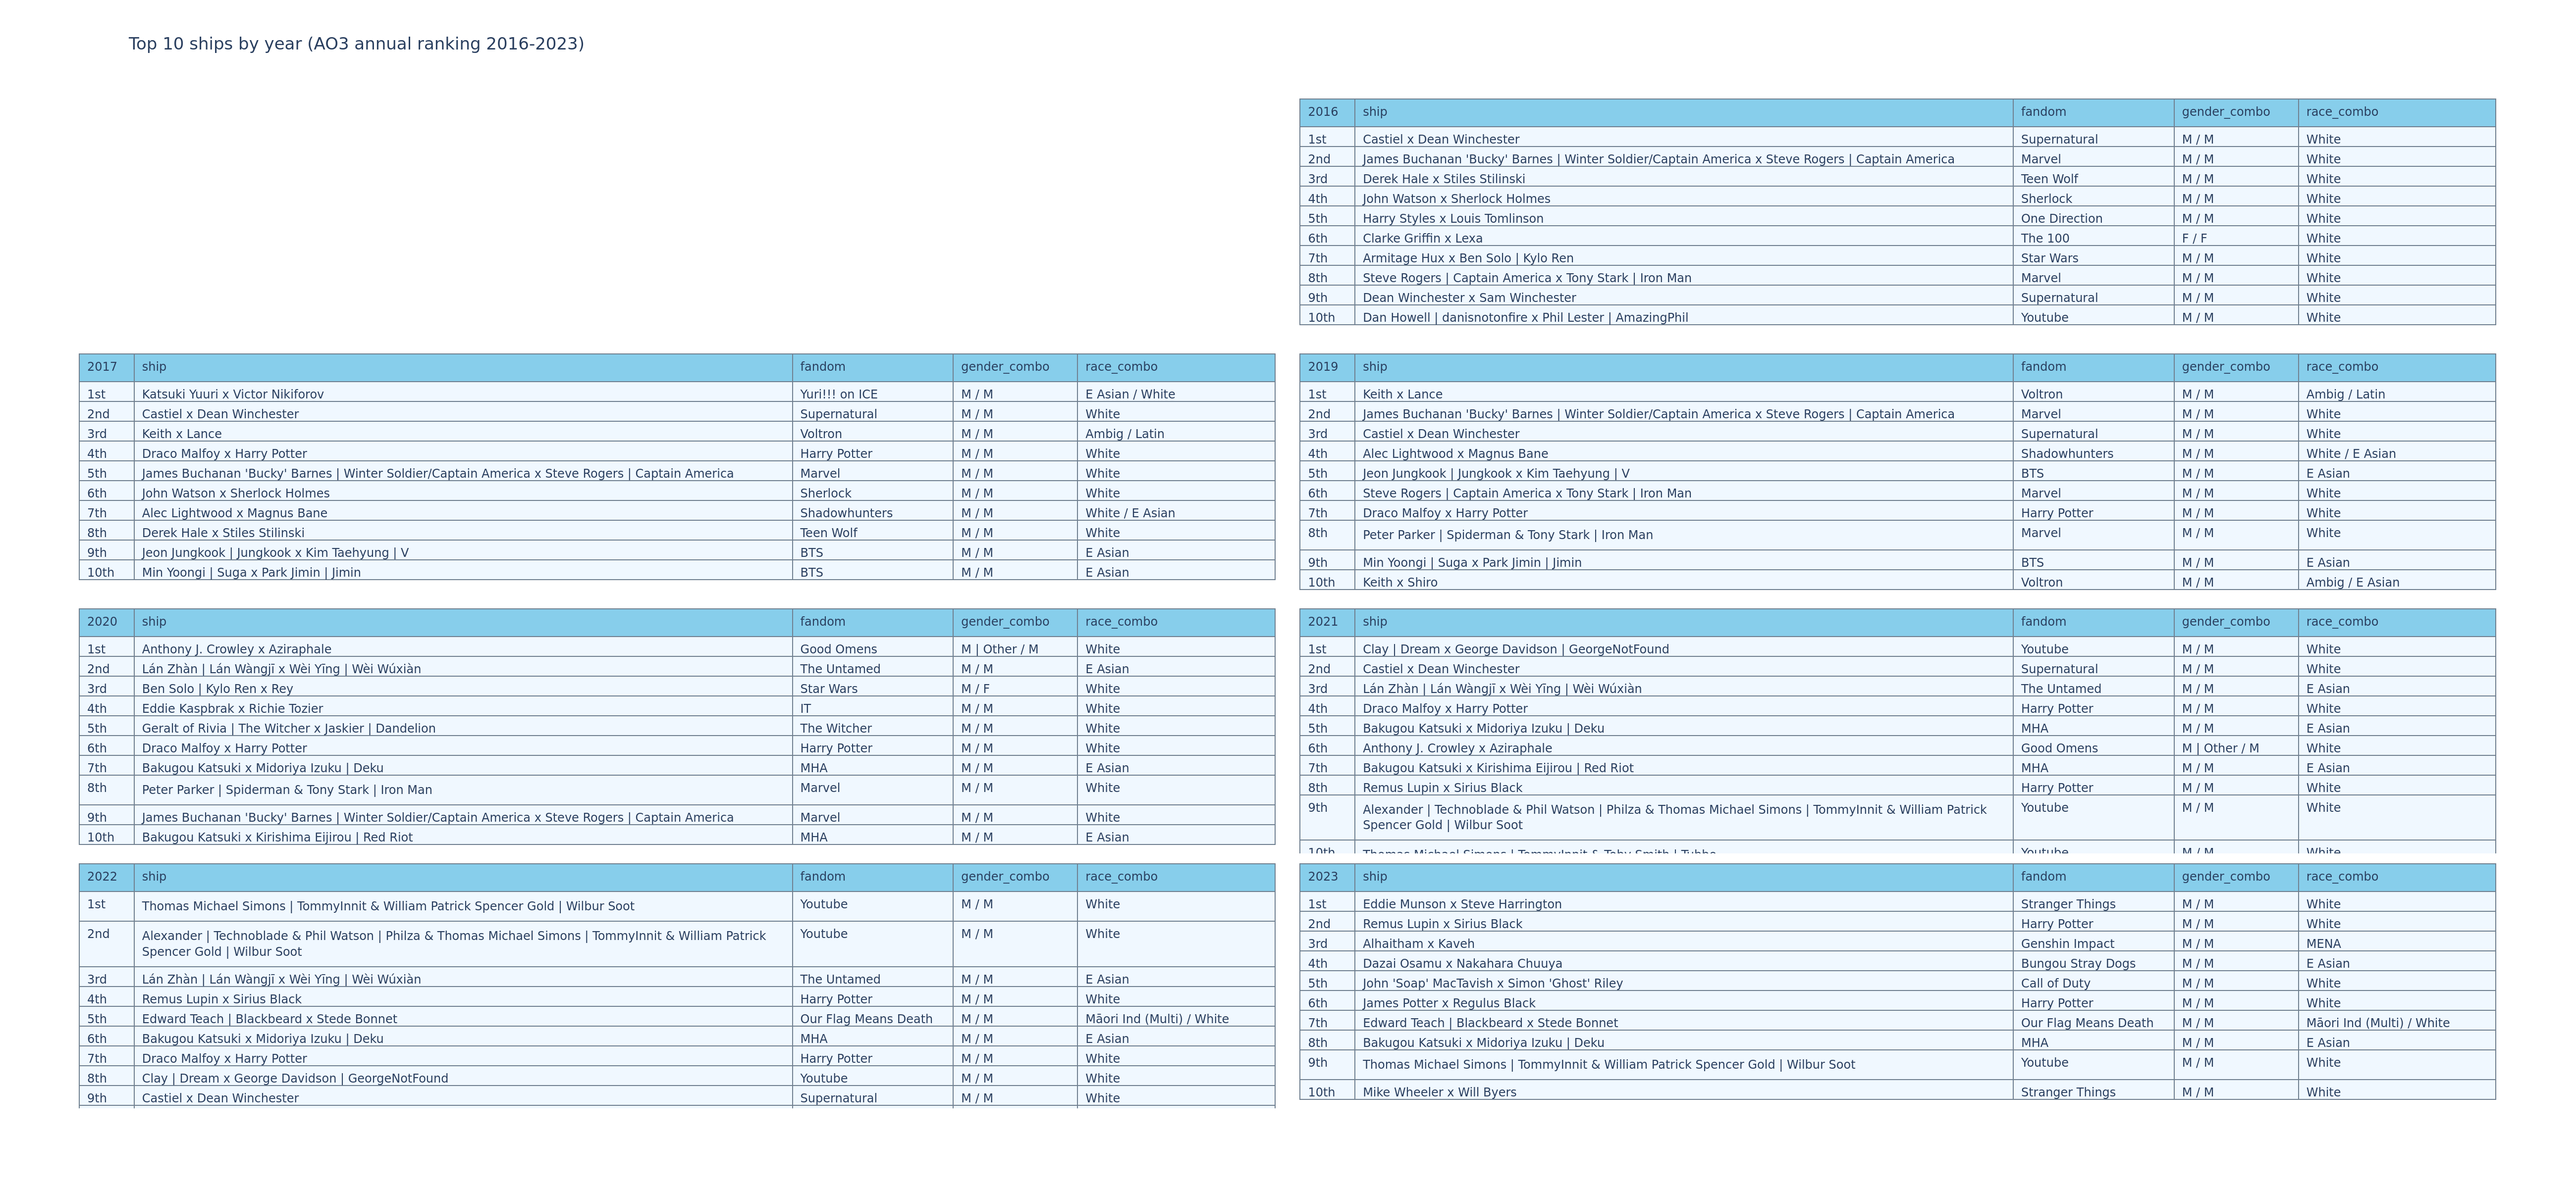
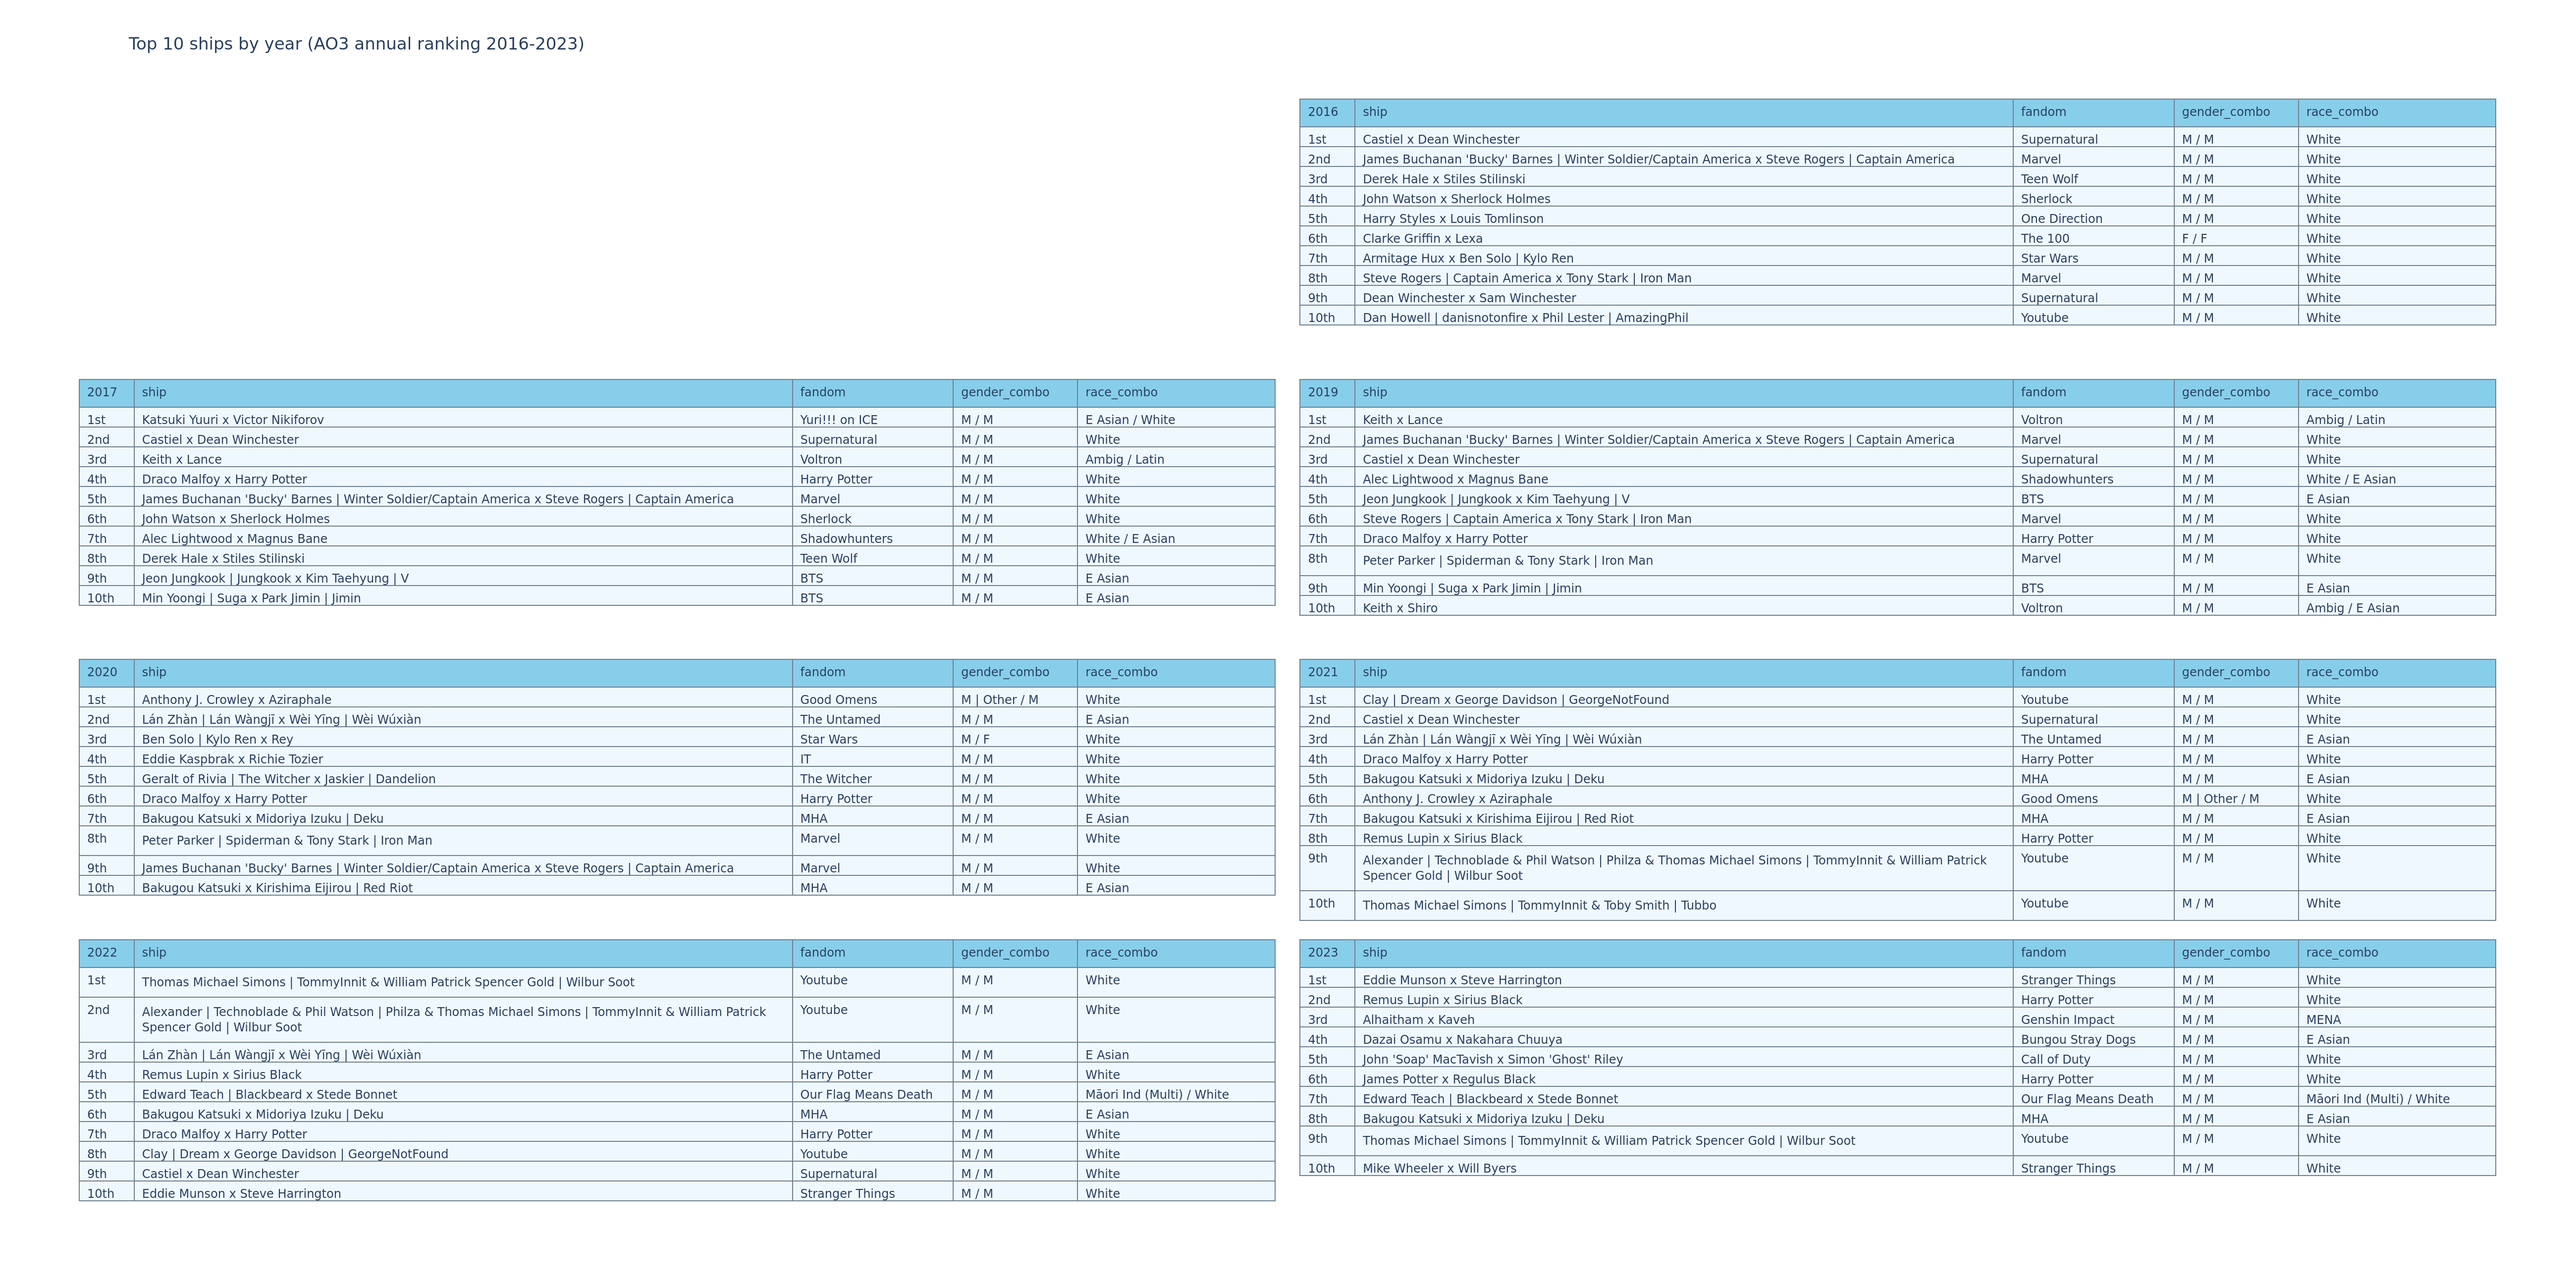
fix another spacing issue

Changed region(s): [[0.0312, 0.0625, 0.9658, 0.9375], [0.0623, 0.0312, 0.2181, 0.0625]]

diff --git a/visualisation/ao3_annual_rankings_2016_2023/vis_annual_ranking_run_code.py b/visualisation/ao3_annual_rankings_2016_2023/vis_annual_ranking_run_code.py
@@ -148,7 +148,7 @@ top_10_ships_fig = visualise_top_5(top_10_ships_dict, "pairings", "annual")
 top_10_ships_fig.write_image(
     "visualisation/ao3_annual_rankings_2016_2023/ao3_annual_rankings_charts/top_annual_ships_2016_2023.png", 
     width=2600, 
-    height=1200, 
+    height=1300, 
     scale=2
 )
 
